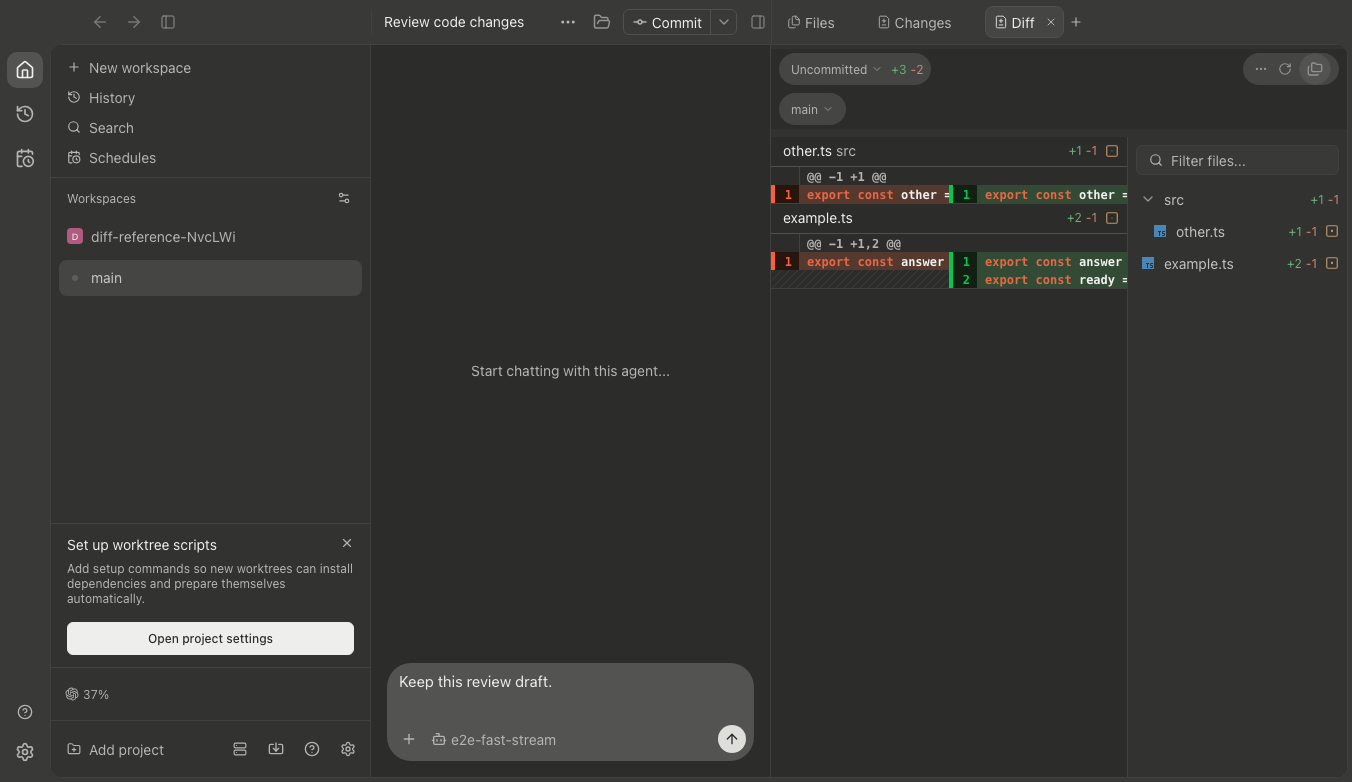
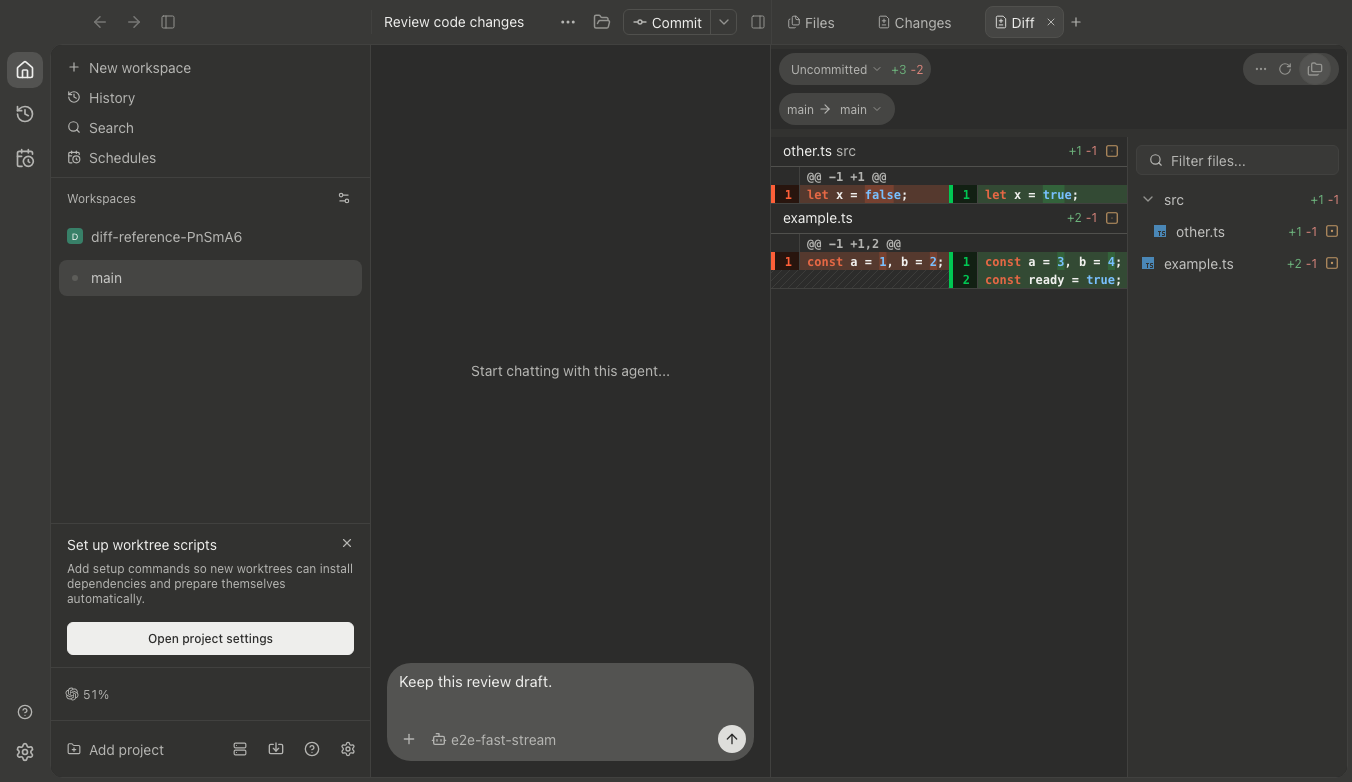
docs(desktop): record intraline rendering validation

diff --git a/docs/refactors/codex-desktop-ui-plan.md b/docs/refactors/codex-desktop-ui-plan.md
@@ -1507,11 +1507,11 @@ Appearance captures were inspected in the private artifact directory
 `/private/tmp/paseo-settings-return-final-{format,lint}.log`. The first concurrent
 typecheck raced the dependency build; the final check was run after build completion.
 
-The latest Custom refresh was built from `86f3551` after the Diff dock, paint and comparison-base renderer
+The latest Custom refresh was built from `e367355` after the Diff dock, paint, comparison-base and intraline renderer
 checks passed. Its real renderer/preload, custom identity/update guard, isolated
 daemon startup, bundled CLI and terminal smoke pass. Log:
-`/private/tmp/paseo-diff-base-package-build.log`; artifacts:
-`/private/tmp/paseo-diff-base-package-qa`. This smoke establishes package startup;
+`/private/tmp/paseo-intraline-package-build.log`; artifacts:
+`/private/tmp/paseo-intraline-package-qa`. This smoke establishes package startup;
 the populated Diff interaction evidence is the isolated renderer case below.
 
 The preceding Custom refresh matched production source `5b5083b`, including code
@@ -1718,7 +1718,7 @@ were compared with the supplied reference pair. Source PNGs are 2704×1564 (@2x)
 the synthetic renderer captures are 1352×782 (@1x), at the same CSS viewport.
 This establishes the dock/tree layout and interaction slice, not full pixel parity:
 the fixture has two small changes, while the reference is scrolled into a large
-diff. Intraline highlights, diff hunk treatments and large-diff notices still need
+diff. Diff hunk treatments and large-diff notices still need
 state-matched refinement. Standalone Mac Diff now has the query-only comparison
 picker described below; the Changes view retains its original checkout switcher.
 Refresh likewise retains its own operation instead of impersonating reference
@@ -1762,10 +1762,47 @@ Logs: `/private/tmp/paseo-diff-paint-palette-{red,green,final}.log`,
 `/private/tmp/paseo-diff-paint-canvas-{red,green}.log`,
 `/private/tmp/paseo-diff-paint-final-{format,lint,typecheck,unit}.log`, and
 `/private/tmp/paseo-diff-paint-renderer.log`. The small fixture does not establish
-large-diff pagination, hunk-expansion or per-character highlight fidelity.
+large-diff pagination or hunk-expansion fidelity.
 Implementation commit: `b81718f`; normal commit hooks pass. The refreshed Custom
 package also passes renderer/preload, custom identity/update guard, isolated
 daemon, CLI and terminal smoke. The read-only review found no material issue.
+
+#### Intraline highlights
+
+Default-dark Mac diffs now mark changed grapheme ranges with the sampled stronger
+addition/deletion backgrounds `#33633b`/`#774130`. Unified and split views reuse
+the same existing line pairing. The source content and line identity remain
+unchanged; range offsets are UTF-16, matching existing selection and review geometry.
+Backgrounds use measured fragment widths and the existing code viewport clip,
+including horizontal offset and wrapped fragments, without entering review space.
+
+The app explicitly depends on the repository's already-used `diff` 8.0.3 runtime
+version. [Its documented diffArrays/edit-distance limit](https://github.com/kpdecker/jsdiff/tree/v8.0.3#universal-options)
+is used with the existing grapheme-break library, rather than another custom diff
+algorithm. npm generated the dependency/lock update. Lines over 8192 UTF-16 units
+or beyond 256 grapheme edits retain their row tint; fine-grained minified-line
+diffs would need worker computation before raising that render-thread budget.
+
+Ranges are prepared only in the materialization window. Wrapped rows still get
+their required height measurement outside that window, but not intraline work;
+the first implementation coupled these two operations, and the new wrapped/unwrapped
+unified/split regression reproduced and fixed it. Reused measured rows fill missing
+ranges when scrolled into view. Completed empty ranges are retained to avoid repeats.
+
+Seventy-two focused range/model/paint/selection/cache/palette tests pass. Three
+renderer cases pass (29.7s), and the affected Diff case passes again after the lazy
+wrap fix (21.0s), including eight actual pixel colors, layout/wrap changes, retained
+canvas/drafts, and Light/Claude/Dark boundaries. The refreshed open/closed-tree
+captures above were compared with the reference; their shorter synthetic lines
+make the individual highlights visible. Root format, lint and typecheck pass.
+Logs: `/private/tmp/paseo-intraline-{model,paint,wrap}-red.log`,
+`/private/tmp/paseo-intraline-wrap-green.log`, `/private/tmp/paseo-intraline-bound-green.log`,
+`/private/tmp/paseo-intraline-renderer{,-final}.log`, and
+`/private/tmp/paseo-intraline-{format,lint,typecheck}-final.log`.
+Implementation commit: `e367355`; normal commit hooks pass. The refreshed Custom
+package passes real renderer/preload startup, custom identity/update guard,
+isolated daemon, bundled CLI and terminal smoke, including the new dependency.
+Read-only review found no material issue in the final lazy/cache handling.
 
 #### Comparison base
 
